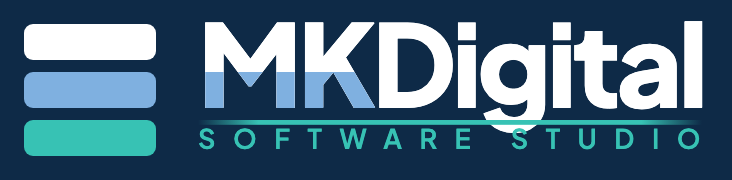
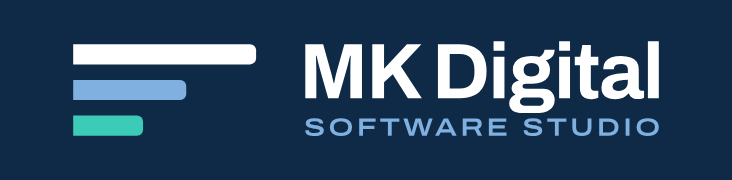
feat(brand): the green mark on splash, settings and share MKD-150

diff --git a/src/presentation/assets/shareIcon.ts b/src/presentation/assets/shareIcon.ts
@@ -1,120 +1,106 @@
 // Generated from design-system/logo/mk-digital-icon-512.png, downscaled to 256 — the sheet renders it at
 // 40pt, and the library upscales anything smaller. Regenerate if the mark changes.
-// The mark is white on teal, so it needs its own navy backdrop: the library flattens transparency to
-// white before handing the icon over, which would erase it.
+// The icon carries its own ground — the library flattens transparency to white.
 export const SHARE_ICON_BASE64 =
[1 lines of base64/hex data omitted]
-  'PgEbAAUAAAABAAAARgEoAAMAAAABAAIAAIdpAAQAAAABAAAATgAAAAAAAAIAAAAAAQAAAgAAAAABAAOgAQADAAAAAQABAACgAgAE' +
[112 lines of base64/hex data omitted]
-  '3fE9YXKv+n9fXujHu0ZhUgAAAABJRU5ErkJggg==';
[101 lines of base64/hex data omitted]
+  'AABJRU5ErkJggg==';

diff --git a/src/presentation/foundation/colors.ts b/src/presentation/foundation/colors.ts
@@ -9,7 +9,7 @@ export const lightColorScheme = {
   onPrimaryContainer: '#FFFFFF',
   secondary: Light.secondary,
   onSecondary: '#FFFFFF',
-  secondaryContainer: Brand.tealDark,
+  secondaryContainer: Brand.greenDark,
   onSecondaryContainer: '#FFFFFF',
   background: Light.neutral[0],
   onBackground: Light.neutral[80],
@@ -46,7 +46,7 @@ export const darkColorScheme = {
   onPrimaryContainer: '#FFFFFF',
   secondary: Dark.secondary,
   onSecondary: '#121212',
-  secondaryContainer: Brand.tealDark,
+  secondaryContainer: Brand.greenDark,
   onSecondaryContainer: '#121212',
   background: Dark.neutral[0],
   onBackground: Dark.neutral[100],
